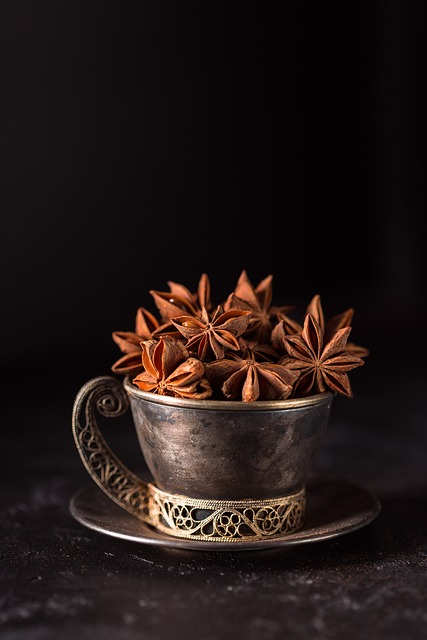
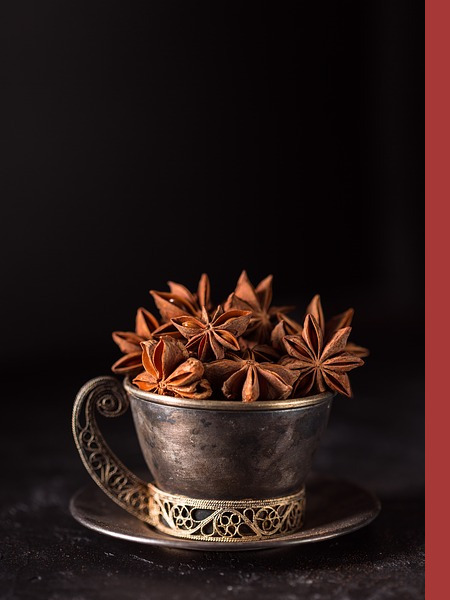
Resign to Bootstrap carousel build, mobile functionality

diff --git a/public_html/index.php b/public_html/index.php
@@ -3,18 +3,18 @@
 	<head>
 		<meta charset="UTF-8">
 		<meta name="viewport" content="width=device-width, initial-scale=1, shrink-to-fit=no">
-
-
-
-		<script type="text/javascript" src="//code.jquery.com/jquery-1.11.0.min.js"></script>
-		<script type="text/javascript" src="//code.jquery.com/jquery-migrate-1.2.1.min.js"></script>
-		<script type="text/javascript" src="slick/slick.min.js"></script>
+<!--		<script type="text/javascript" src="//code.jquery.com/jquery-1.11.0.min.js"></script>-->
+<!--		<script type="text/javascript" src="//code.jquery.com/jquery-migrate-1.2.1.min.js"></script><script src="https://code.jquery.com/jquery-3.3.1.slim.min.js" integrity="sha384-q8i/X+965DzO0rT7abK41JStQIAqVgRVzpbzo5smXKp4YfRvH+8abtTE1Pi6jizo" crossorigin="anonymous"></script>-->
+<!--		<script src="https://cdnjs.cloudflare.com/ajax/libs/popper.js/1.14.0/umd/popper.min.js" integrity="sha384-cs/chFZiN24E4KMATLdqdvsezGxaGsi4hLGOzlXwp5UZB1LY//20VyM2taTB4QvJ" crossorigin="anonymous"></script>-->
+<!--		<script src="https://stackpath.bootstrapcdn.com/bootstrap/4.1.0/js/bootstrap.min.js" integrity="sha384-uefMccjFJAIv6A+rW+L4AHf99KvxDjWSu1z9VI8SKNVmz4sk7buKt/6v9KI65qnm" crossorigin="anonymous"></script>-->
+		<script src="https://code.jquery.com/jquery-3.3.1.slim.min.js" integrity="sha384-q8i/X+965DzO0rT7abK41JStQIAqVgRVzpbzo5smXKp4YfRvH+8abtTE1Pi6jizo" crossorigin="anonymous"></script>
+		<script src="https://cdnjs.cloudflare.com/ajax/libs/popper.js/1.14.0/umd/popper.min.js" integrity="sha384-cs/chFZiN24E4KMATLdqdvsezGxaGsi4hLGOzlXwp5UZB1LY//20VyM2taTB4QvJ" crossorigin="anonymous"></script>
 		<script src="https://stackpath.bootstrapcdn.com/bootstrap/4.1.0/js/bootstrap.min.js"
 				  integrity="sha384-uefMccjFJAIv6A+rW+L4AHf99KvxDjWSu1z9VI8SKNVmz4sk7buKt/6v9KI65qnm"
 				  crossorigin="anonymous"></script>
-		<link rel="stylesheet" type="text/css" href="//cdn.jsdelivr.net/npm/slick-carousel@1.8.1/slick/slick.css"/>
-		<script type="text/javascript" src="//cdn.jsdelivr.net/npm/slick-carousel@1.8.0/slick/slick.min.js"></script>
-		<script type="text/javascript" rel="script" src="slicks.js"></script>
+<!--		<link rel="stylesheet" type="text/css" href="//cdn.jsdelivr.net/npm/slick-carousel@1.8.1/slick/slick.css"/>-->
+<!--		<script type="text/javascript" src="//cdn.jsdelivr.net/npm/slick-carousel@1.8.0/slick/slick.min.js"></script>-->
+<!--		<script type="text/javascript" rel="script" src="slicks.js"></script>-->
 		<link rel="stylesheet" href="https://stackpath.bootstrapcdn.com/bootstrap/4.1.1/css/bootstrap.min.css">
 		<link rel="stylesheet" href="desktop.css">
 		<link rel="shortcut icon" href="images/favicon.ico" type="image/x-icon">
@@ -37,8 +37,8 @@
 			</div>
 		</section>
 		<section>
-			<div class="container about d-flex flex-sm-wrap mw-100 ">
-				<img src="images/lionteeth.jpg" alt="ricky" class="img-fluid rounded-circle col-sm-12 col-md-6 row-sm-12">
+			<div class="container-fluid about d-flex flex-sm-wrap mw-100 mh-100 " >
+				<img src="images/lionteeth.jpg" alt="ricky" class="rounded-circle col-xs-12 col-sm-12 col-md-6 row-sm-12">
 				<div class="list-group flex-grow align-self-end rounded b border-dark">
 					<a class="list-group-item-dark pb-3 display-2 pr-2 ">
 						Developer
@@ -48,7 +48,7 @@
 					</a>
 					<a class="list-group-item-dark display-4 pb-3 justify-content-between align-items-center">
 						Writer
-						<span class="badge badge-primary badge-pill lead badge-dark" href="#!">Medium</span>
+<!--						<span class="badge badge-primary badge-pill lead badge-dark" href="#!">Medium</span>-->
 					</a>
 				</div>
 			</div>
@@ -58,34 +58,34 @@
 		</div>
 		<section>
 			<div class="container-fluid d-block">
-<!--				<div id="carouselStories" class="carousel slide carousel-fade" data-ride="carousel">-->
-<!--					<div class="carousel-inner" role="listbox">-->
-<!--						<div class="carousel-item active">-->
-<!--							<img class="d-block w-100" src="#" data-src="./images/flower.jpg" alt="First slide">-->
-<!--						</div>-->
-<!--						<div class="carousel-item">-->
-<!--							<img class="d-block w-100" src="#" data-src="./images/test-portrait.jpg" alt="Second slide">-->
-<!--						</div>-->
-<!--					</div>-->
-<!--					<a class="carousel-control-prev" href="#carouselStories" role="button" data-slide="prev">-->
-<!--						<span class="carousel-control-prev-icon" aria-hidden="true"></span>-->
-<!--						<span class="sr-only">Previous</span>-->
-<!--					</a>-->
-<!--					<a class="carousel-control-next" href="#carouselStories" role="button" data-slide="next">-->
-<!--						<span class="carousel-control-next-icon" aria-hidden="true"></span>-->
-<!--						<span class="sr-only">Next</span>-->
-<!--					</a>-->
-<!--				</div>-->
-
-
-				<!--				<div class="card col-md-3 pt-2">-->
-				<div class="row">
-					<div class="single-item pt-2">
-						<div><img src="images/flower.jpg" alt="Card image cap"></div>
-						<div><img src="images/test-portrait.jpg"></div>
-						<div><img src="images/test-honey.jpg"></div>
+				<div id="carouselStories" class="carousel slide carousel-fade" data-ride="carousel">
+					<div class="carousel-inner" role="listbox">
+						<div class="carousel-item active">
+							<img class="d-block w-100" src="images/flower.jpg" alt="First slide">
+						</div>
+						<div class="carousel-item">
+							<img class="d-block w-100" src="images/test-portrait.jpg" alt="Second slide">
+						</div>
+						<div class="carousel-item">
+							<img class="d-block w-100" src="images/test-honey.jpg" alt="Third slide">
+						</div>
 					</div>
+					<a class="carousel-control-prev" href="#carouselStories" role="button" data-slide="prev">
+						<span class="carousel-control-prev-icon" aria-hidden="true"></span>
+						<span class="sr-only">Previous</span>
+					</a>
+					<a class="carousel-control-next" href="#carouselStories" role="button" data-slide="next">
+						<span class="carousel-control-next-icon" aria-hidden="true"></span>
+						<span class="sr-only">Next</span>
+					</a>
 				</div>
+<!--				<div class="row">-->
+<!--					<div class="single-item pt-2">-->
+<!--						<div><img src="images/flower.jpg" alt="Card image cap"></div>-->
+<!--						<div><img src="images/test-portrait.jpg"></div>-->
+<!--						<div><img src="images/test-honey.jpg"></div>-->
+<!--					</div>-->
+<!--				</div>-->
 
 			</div>
 
@@ -124,7 +124,7 @@
 			<div class="container"></div>
 		</section>
 		<div class="container">
-			<div class=" ml-5 redbar"></div>
+			<div class="redbar"></div>
 		</div>
 		<section>
 			<div class="container-fluid frac" id="contact-section">
@@ -171,8 +171,6 @@
 								</div>
 
 						</div>
-
-						<script type="text/javascript" src="//cdn.jsdelivr.net/gh/kenwheeler/slick@1.8.1/slick/slick.min.js"></script>
 
 
 	</body>
